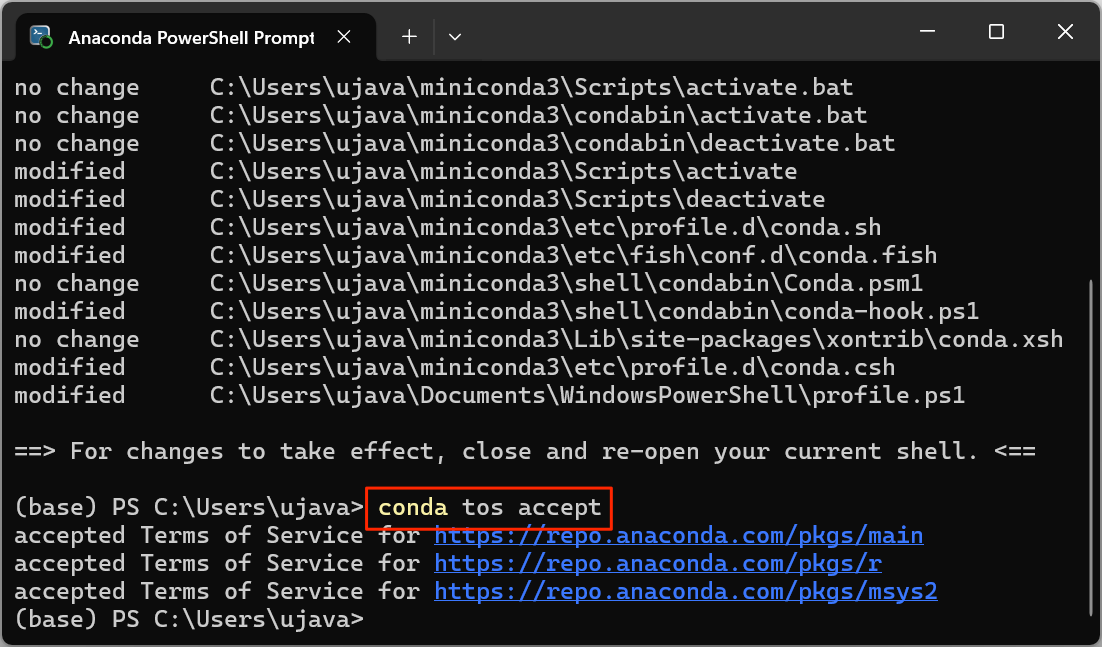
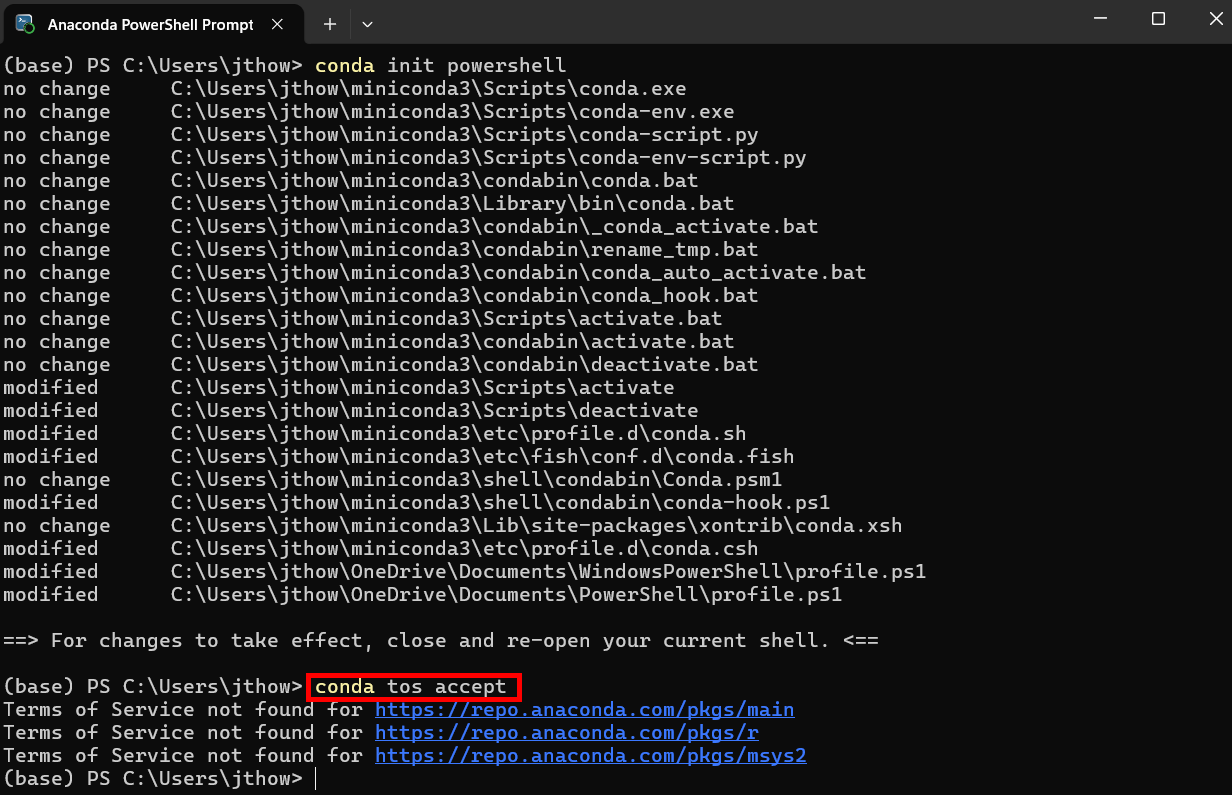
Actualizar contenido del libro

diff --git a/capitulo_0.md b/capitulo_0.md
@@ -473,9 +473,9 @@ El sistema te mostrará el modelo del procesador y su arquitectura:
 Miniconda es una distribución ligera que incorpora Python, Conda y los componentes esenciales para administrar entornos de trabajo independientes.
 Descargue desde su sitio oficial Miniconda y seleccione el instalador correspondiente a la arquitectura identificada anteriormente.
 
-#### Instalar Miniconda en Mac
+#### Instalar Miniconda en Mac ![Logo Mac](images/images-svg/Apple-Logo.svg)
 
-1. Visita la página [de descarga de Miniconda](https://continuumio-docs.readthedocs-hosted.com/miniconda/install/#quick-command-line-install) y luego selecciona la **64-bit (Apple silicon) Graphical Installeropción** correspondiente. Se descargará un `.pkg`  instalador. 
+1. Visita la página [de descarga de Miniconda](https://continuumio-docs.readthedocs-hosted.com/miniconda/install/#quick-command-line-install) y luego selecciona la **64-bit (Apple silicon) Graphical Installeropción** correspondiente. Se descargará un `.pkg`  instalador.
 
 ![Paso 1](images/mac-images/1.png)
 
@@ -522,6 +522,65 @@ conda info
 Si ambos comandos se ejecutan correctamente, Conda está disponible en el sistema.
 
 ![Conda Info](images/mac-images/conda-info.png)
+
+#### Instalar Miniconda en Windows ![Logo Windows](images/images-svg/Windows-Logo.svg)
+
+1. Visita la página [de descarga de Miniconda](https://www.anaconda.com/download/success?reg=skipped-miniconda) y selecciona  **Windows 64-Bit (x86_64) Graphical Installer** correspondiente. Se descargará un archivo de instalación `.exer`.
+
+![Paso 1](images/windows-images/1.png)
+
+2. Una vez descargado, ejecuta el instalador haciendo doble clic en él. Haz clic en *Siguiente.*
+
+![Paso 2](images/windows-images/2.png)
+
+3. Lee los términos de condiciones y haz clic en *Acepto* ellos.
+
+![Paso 3](images/windows-images/3.png)
+
+4. Selecciona la opción *Just Me* (recomendado) para la instalación y Haz clic en *Siguiente*.
+
+![Paso 4](images/windows-images/4.png)
+
+5. Para elegir ubicación de instalación, puedes mantener el valor predeterminado directorio sugerido como la Carpeta de Destino. Haz clic en Siguiente
+
+>[!note]
+> Si tu nombre de usuario contiene espacios o caracteres especiales, algunos paquetes podrían presentar problemas. En ese caso, elige una ruta sencilla como `C:\miniconda3`.
+
+![Paso 5](images/windows-images/5.png)
+
+6. Configura las opciones avanzadas y haz clic en Instalar. Marca estas dos casillas:
+
+✅ Agregar Miniconda3 a mi variable de entorno PATH
+
+✅ Registrar Miniconda3 como mi Python 3 predeterminado
+
+![Paso 6](images/windows-images/6.png)
+
+7. Cuando termine la instalación, haz clic en Finalizar.
+
+![Paso 7](images/windows-images/7.png)
+
+8. Tu instalación está completa, pero necesitamos verificarla y Configura algunos ajustes. Abre un *nuevo prompt de Powershell de Anaconda* desde el menú de inicio.
+
+![Paso 8](images/windows-images/8.png)
+
+9. La instalación ha finalizado, pero faltan ajustes. Abre desde el menú Inicio el **Anaconda PowerShell Prompt** (se abrirá con el entorno `base` activo).
+
+```bash
+conda init powershell
+```
+
+![Paso 9](images/windows-images/9.png)
+
+10. Por último, acepta los Términos de Servicio de Anaconda:
+
+```bash
+conda tos accept
+```
+
+![Paso 10](images/windows-images/10.png)
+
+Tu instalación ya está completa.
 
 ### 0.3.4. Creación del entorno de Machine Learning
 
